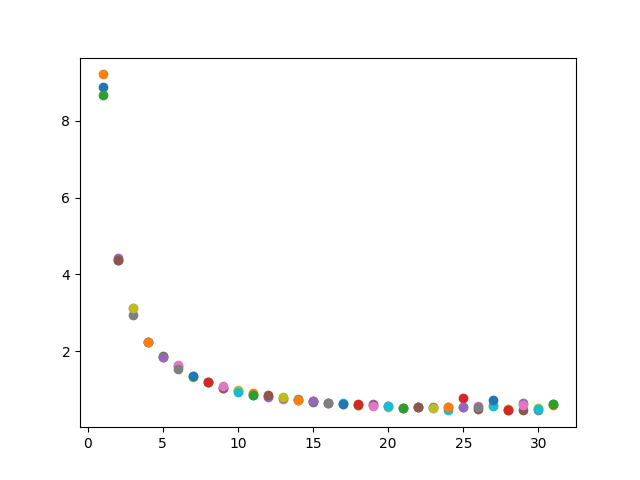
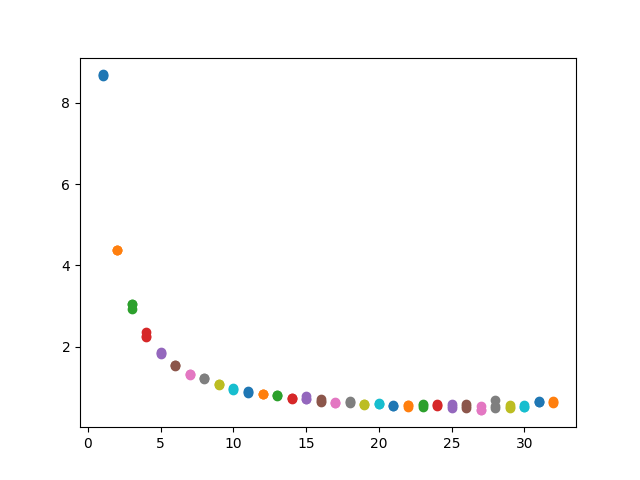
new graph

diff --git a/graph_jacobi.py b/graph_jacobi.py
@@ -12,7 +12,7 @@ def process_stream( stream: "iterable" ) -> int:
 if __name__ == "__main__":
   times = defaultdict( list )
 
-  for i in range( 1, 32 ): # number of cores
+  for i in range( 1, 33 ): # number of cores
     for _ in range(3):
       stream = os.popen( f'./a.out {i}' )
       init_time, delta_time, calc_time = process_stream( stream )
@@ -20,7 +20,5 @@ if __name__ == "__main__":
       times[i].append( calc_time )
 
   for threads, exectimes in times.items():
-    plt.scatter( [threads], [exectimes[0]] )
-    plt.scatter( [threads], [exectimes[1]] )
-    plt.scatter( [threads], [exectimes[2]] )
+    plt.scatter( [threads] * 3, exectimes )
   plt.savefig( "graph.png" )
